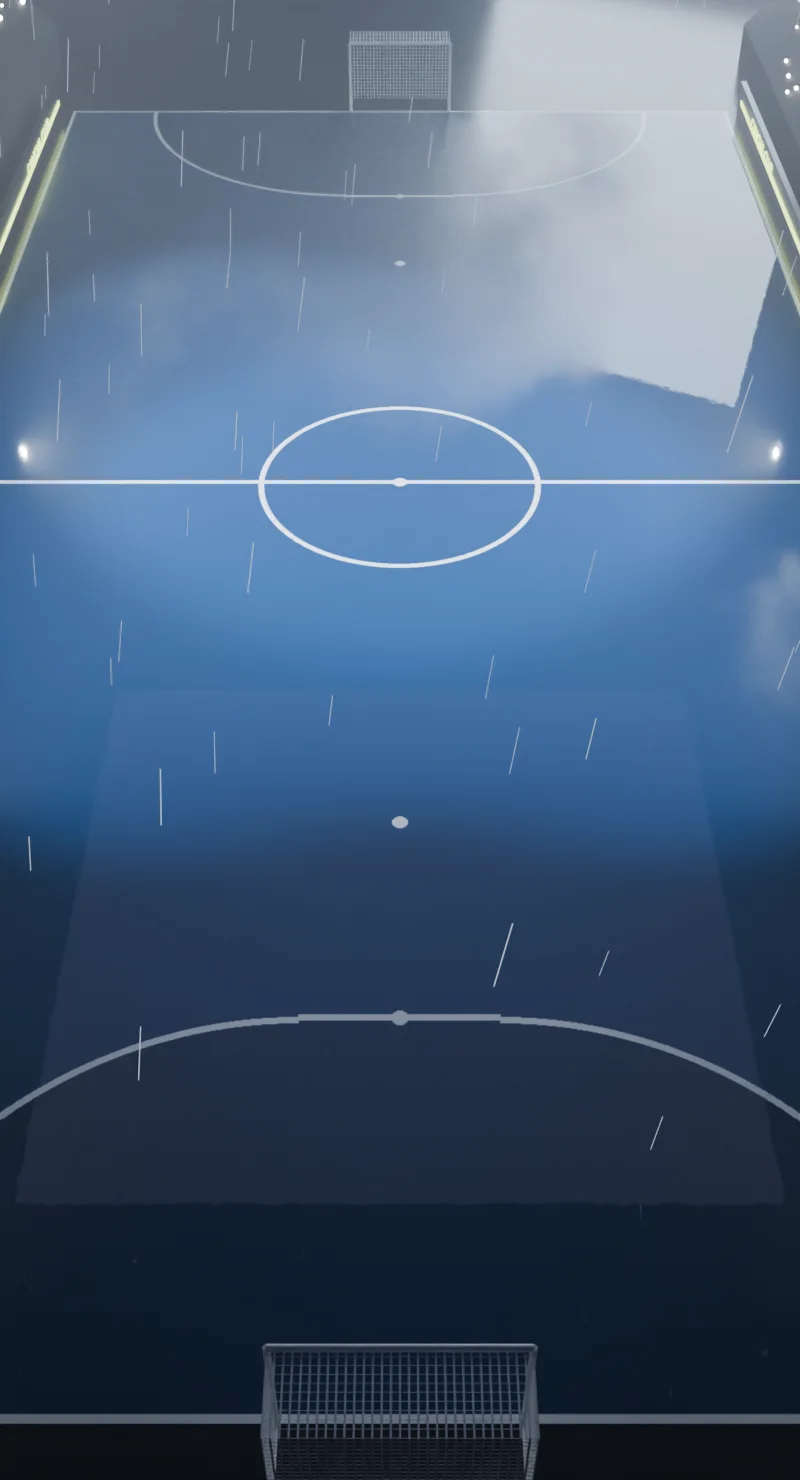
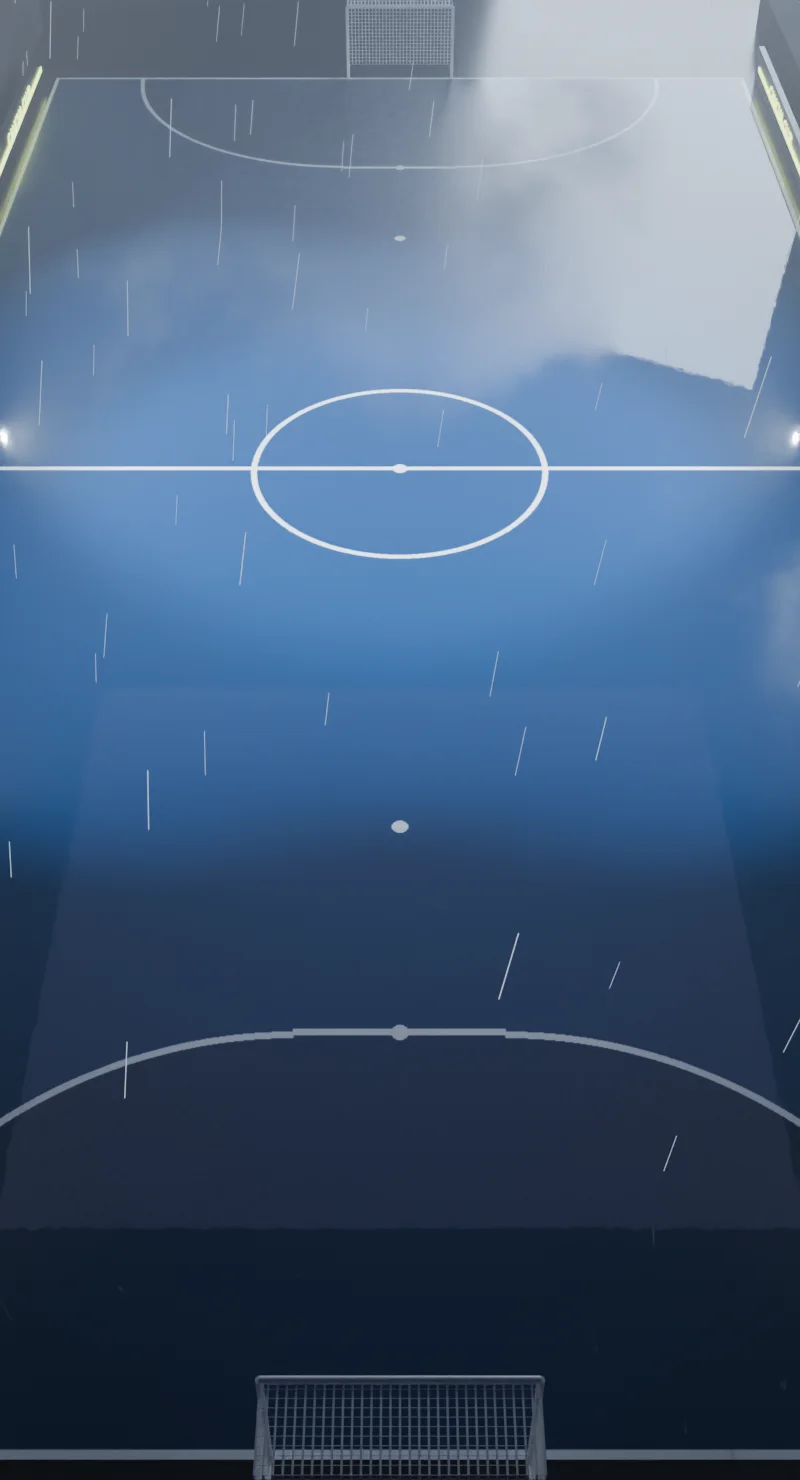
update court art and script

diff --git a/scripts/blender/quadra-toro.py b/scripts/blender/quadra-toro.py
@@ -112,12 +112,12 @@ for k in range(380):
     sx = random.choice((-1, 1)); u = random.uniform(0.1, 5.8); y = random.uniform(-3.5, Ln + 3.0); z = 1.2 + (u / 6.0) * 5.6 + 0.1
     bpy.ops.mesh.primitive_uv_sphere_add(radius=random.uniform(0.04, 0.09), segments=6, ring_count=4, location=(sx * (W / 2 + 1.0 + u), y, z)); bpy.context.active_object.data.materials.append(dm)
 # relâmpago distante (luz fria) atrás do gol
-lg = bpy.data.lights.new('Relampago', 'AREA'); lg.energy = 9000; lg.size = 14; lg.color = (0.62, 0.76, 1.0); lo = bpy.data.objects.new('Relampago', lg); lo.location = (-9, -14, 9); lo.rotation_euler = (math.radians(70), 0, math.radians(-30)); scene.collection.objects.link(lo); lo.visible_camera = False
+lg = bpy.data.lights.new('Relampago', 'AREA'); lg.energy = 9000; lg.size = 14; lg.color = (0.62, 0.76, 1.0); lo = bpy.data.objects.new('Relampago', lg); lo.location = (-9, -14, 9); lo.rotation_euler = (math.radians(70), 0, math.radians(-30)); scene.collection.objects.link(lo); lo.visible_camera = False; lo.visible_glossy = False
 # ---- refletores nos cantos + feixes
 for (x, y) in ((-W / 2 - 3, 2), (W / 2 + 3, 2), (-W / 2 - 3, Ln - 2), (W / 2 + 3, Ln - 2), (-W / 2 - 3, Ln / 2), (W / 2 + 3, Ln / 2)):
-    a = bpy.data.lights.new('Ref', 'SPOT'); a.energy = 38000; a.spot_size = math.radians(48); a.spot_blend = 0.7; a.color = (0.72, 0.84, 1.0)
+    a = bpy.data.lights.new('Ref', 'SPOT'); a.energy = 38000; a.spot_size = math.radians(48); a.spot_blend = 0.7; a.color = (0.72, 0.84, 1.0); a.volume_factor = 0.25
     o = bpy.data.objects.new('Ref', a); o.location = (x, y, 11); tgt = Vector((0, Ln / 2, 0)); o.rotation_euler = (tgt - o.location).to_track_quat('-Z', 'Y').to_euler(); scene.collection.objects.link(o)
-fl = bpy.data.lights.new('Fill', 'AREA'); fl.energy = 500; fl.size = 18; fl.color = (0.5, 0.45, 0.9); fo = bpy.data.objects.new('Fill', fl); fo.location = (0, Ln / 2, 14); fo.rotation_euler = (0, 0, 0); scene.collection.objects.link(fo); fo.visible_camera = False
+fl = bpy.data.lights.new('Fill', 'AREA'); fl.energy = 500; fl.size = 18; fl.color = (0.5, 0.45, 0.9); fo = bpy.data.objects.new('Fill', fl); fo.location = (0, Ln / 2, 14); fo.rotation_euler = (0, 0, 0); scene.collection.objects.link(fo); fo.visible_camera = False; fo.visible_glossy = False
 
 # névoa
 bpy.ops.mesh.primitive_cube_add(size=1, location=(0, Ln / 2, 6)); vb = bpy.context.active_object; vb.scale = (70, 90, 14); vb.display_type = 'WIRE'
@@ -132,7 +132,7 @@ for k in range(260):
 gl = mat('Onda'); gb = gl.node_tree.nodes['Principled BSDF']; gb.inputs['Base Color'].default_value = (0.8, 0.9, 1.0, 1); gb.inputs['Roughness'].default_value = 0.05; gb.inputs['Alpha'].default_value = 0.2
 # ---- câmera: alta, olhando a meia quadra de trás do gol
 FLIP = ARGS.get('flip') == '1'
-cam = bpy.data.cameras.new('Cam'); cam.lens = 38; co = bpy.data.objects.new('Cam', cam); scene.collection.objects.link(co); scene.camera = co
+cam = bpy.data.cameras.new('Cam'); cam.lens = 40; co = bpy.data.objects.new('Cam', cam); scene.collection.objects.link(co); scene.camera = co
 if not FLIP: co.location = (0, -8.0, 19.0); tg = Vector((0, 12.0, 0))
 else: co.location = (0, Ln + 8.0, 19.0); tg = Vector((0, Ln - 12.0, 0))
 co.rotation_euler = (tg - co.location).to_track_quat('-Z', 'Y').to_euler(); cam.dof.use_dof = False
